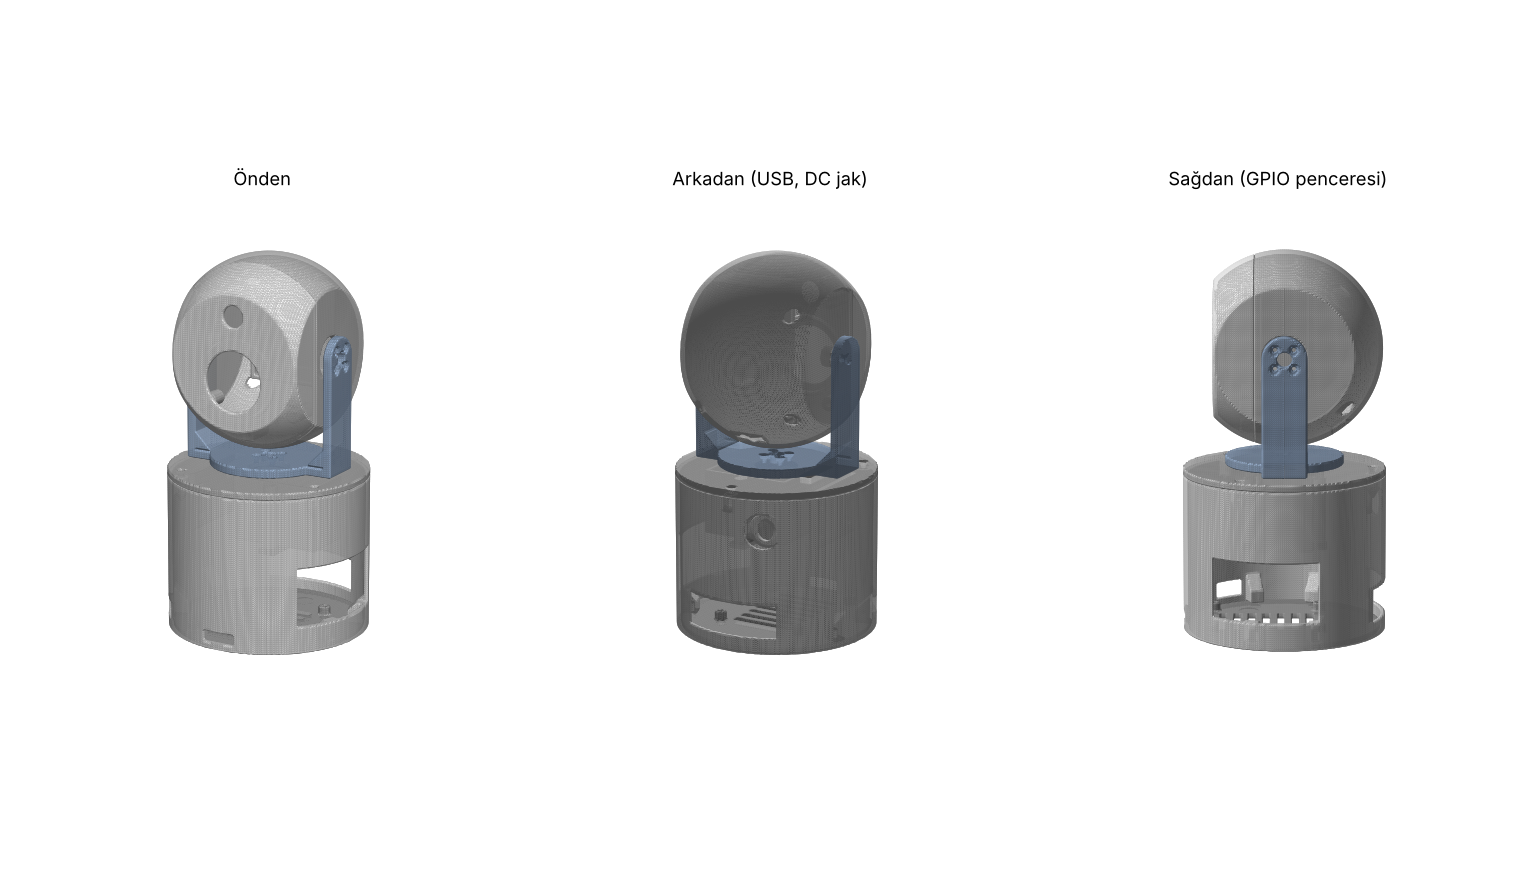
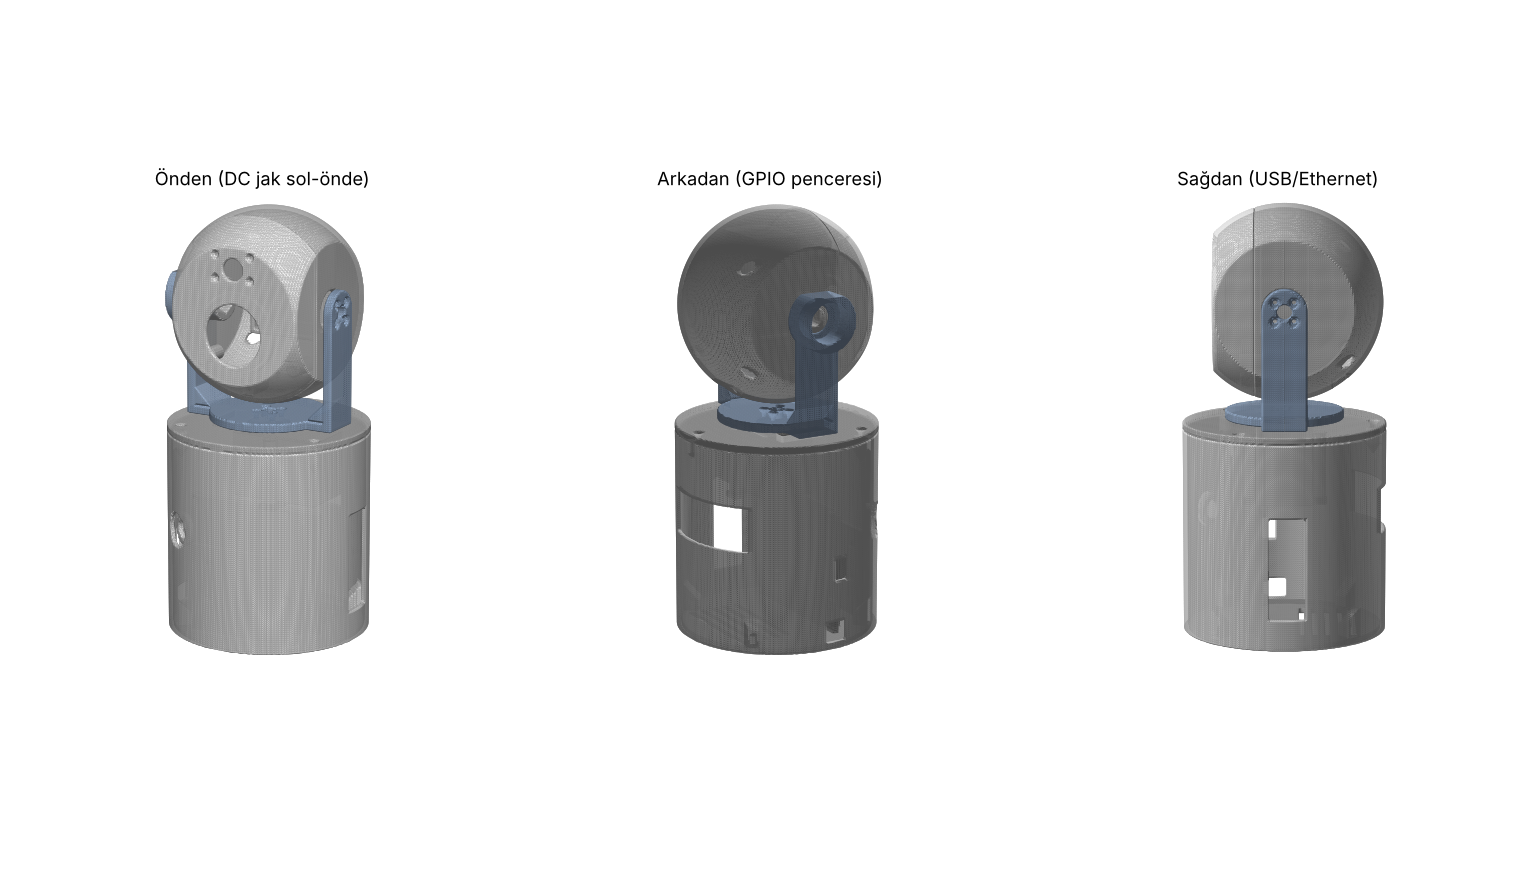
Gövde v0.4.1: Pi ve servo kartı dik, 2x608ZZ tilt mili (M8), kamera M2 vida+somun
Claude-Session: https://claude.ai/code/session_01TwNRyrY6z2di526zdgK8iY

diff --git a/tasarim/v4/robot_v4.py b/tasarim/v4/robot_v4.py
@@ -29,22 +29,31 @@ KORNA_D = 20.0              # ÖLÇ: korna çapı
 KORNA_DELIK_C = 14.0        # ÖLÇ: korna vida çemberi
 KORNA_VIDA = 2.5            # ÖLÇ: korna vida geçiş deliği (M2 ise 2.4, M3 ise 3.3)
 
-# Pi 5 (85 x 56, delikler 58 x 49, kenardan 3.5). Uzun eksen y, USB/Ethernet +y (arka).
-PI_X, PI_Y = 56.0, 85.0
-PI_DELIK = [(-24.5, -39.0), (24.5, -39.0), (-24.5, 19.0), (24.5, 19.0)]
-PLAKA_T, PI_AYAK = 3.0, 5.0
-PI_Z = PLAKA_T + PI_AYAK            # kartın alt yüzü
-PI_YIGIN = 38.0                     # ÖLÇ: Pi + Active Cooler + M.2 HAT+ (+SSD)
+# Pi 5 (85 x 56, delikler 58 x 49, kenardan 3.5) DİK durur: uzun kenar yatay (x), kart düzlemi xz.
+# Kartın alt yüzü öne (-y) bakar, bileşenler + HAT arkaya (+y). SD ucu -x, USB/Ethernet ucu +x,
+# GPIO üst uzun kenarda (arkaya bakar), USB-C alt uzun kenarda (aşağı bakar -> açılı kablo).
+PI_W, PI_H = 85.0, 56.0
+PI_Z0 = 16.0                        # kartın alt kenarı (altında açılı USB-C fişi için boşluk)  ÖLÇ
+PI_Z1 = PI_Z0 + PI_H                # 72
+PI_YB = -9.0                        # kartın alt yüzü (ön); HAT köşesi duvara sığsın
+PI_YIGIN = 38.0                     # ÖLÇ: Pi + Active Cooler + M.2 HAT+ (+SSD), kart dahil
+PI_DELIK = [(-39.0, PI_Z0 + 3.5), (19.0, PI_Z0 + 3.5), (-39.0, PI_Z0 + 52.5), (19.0, PI_Z0 + 52.5)]   # (x, z)
+PI_USBC_X = -42.5 + 11.2
+PLAKA_T = 3.0
+TASIYICI_Y = (PI_YB - 7, PI_YB - 4) # Pi taşıyıcı duvarı (alt plakadan yükselir)
+BUS_Y = (-41.0, -38.0)              # servo kartı taşıyıcı duvarı
+BUS_KART = (-20, 20, 20, 45)        # ÖLÇ: Bus Servo Adapter (A) x0, x1, z0, z1
+DC_ACI, DC_Z = 235.0, 60.0          # 12 V jak: sol-ön duvar, servo kartının üstü
 
 # Gövde
 G_R = 55.0
 G_IC = G_R - DUVAR
-G_UST = 85.5                        # tüp üst kenarı = kapak alt yüzü
+G_UST = PI_Z1 + 3 + SV_H + 0.5      # tüp üst kenarı = kapak alt yüzü (110.5): pan servo Pi'nin üstünde
 K_T = 4.0                           # kapak kalınlığı
 K_UST = G_UST + K_T                 # 89.5
 KORNA_UST = K_UST + 1.5             # pan kornasının üst yüzü
-SV_PAN_UST = KORNA_UST - SV_CIKINTI # pan servo üst yüzü (85.0)
-PLAKA_KULE_ACI = [20, 160, 200, 340]
+SV_PAN_UST = KORNA_UST - SV_CIKINTI # pan servo üst yüzü
+PLAKA_KULE_ACI = [45, 135, 225, 315]
 KAPAK_KULE_ACI = [90, 220, 330]
 KULE_R = 48.0
 
@@ -71,6 +80,9 @@ KAM_KART_Y = -31.0                  # kartın ön yüzü
 KAM_LENS_D = 12.0                   # ÖLÇ
 # Tilt servo kafada: mil +x, korna dış yüzü x = KOL_IC, gövde yukarı uzanır
 SV_T_YUZ = KOL_IC - SV_CIKINTI      # 33.5
+R608 = (8.0, 22.0, 7.0)             # 608ZZ: iç, dış, kalınlık
+RUL_SAYI = 2
+GOBEK_L = R608[2] * RUL_SAYI + 2.0   # sol kol göbeği: 2 rulman + 2 mm omuz
 KAFA_VIDA = [(-28.0, 28.0), (-28.0, -28.0), (28.0, -28.0), (0.0, -42.0)]  # (x, z)
 
 # ---------------- SDF temel parçalar ----------------------------------------
@@ -143,41 +155,57 @@ def govde(x, y, z):
         k = U(k, web)
         k = D(k, cyl(x, y, z, "z", (cx, cy), 2.0, G_UST - 6.5, G_UST + 1))
         sol = U(sol, k)
-    # DC jak için düz yatak (kavisli duvarda somun otursun): içte y=45, dışta y=48 -> 3 mm panel
-    sol = U(sol, I(cyl(x, y, z, "y", (-20, 68), 9.0, 45.0, 60), cyl(x, y, z, "z", (0, 0), G_R, 0, G_UST)))
-    sol = D(sol, cyl(x, y, z, "y", (-20, 68), 9.5, 48.0, 70))
+    # DC jak: kavisli duvarda düz yatak (içte 3 mm panel)
+    ca, sa = math.cos(math.radians(DC_ACI)), math.sin(math.radians(DC_ACI))
+    rad = x * ca + y * sa
+    def dc_cyl(r, a0, a1):   # radyal eksenli silindir
+        lat = np.sqrt((x * sa - y * ca) ** 2 + (z - DC_Z) ** 2)
+        return np.maximum(lat - r, np.maximum(a0 - rad, rad - a1))
+    sol = U(sol, I(dc_cyl(9.0, G_IC - 4.5, 70), cyl(x, y, z, "z", (0, 0), G_R, 0, G_UST)))
+    sol = D(sol, dc_cyl(9.5, G_IC - 1.5, 80))
     # --- açıklıklar ---
     kes = Un(
-        # USB + Ethernet (arka, +y)
-        box(x, y, z, -27, 27, 35, 70, PI_Z + 1, PI_Z + 19),
-        # USB-C güç (sol, -x)  — Pi 5'te USB-C, SD tarafındaki uçtan 11.2 mm
-        box(x, y, z, -70, -35, -31.3 - 7, -31.3 + 7, PI_Z - 1.3, PI_Z + 7.7),
-        # microSD (ön, -y, kartın altında)               ÖLÇ: yuvanın x konumu
-        box(x, y, z, -9, 9, -70, -38, PLAKA_T + 1, PI_Z + 2),
-        # GPIO penceresi (sağ, +x): başlık boyunca, HAT üstündeki pinlere kadar
-        box(x, y, z, 30, 70, -38, 18, PI_Z + 7, PI_Z + 39),
-        # 12 V DC jak (arka)                                ÖLÇ: panel jak deliği
-        cyl(x, y, z, "y", (-20, 68), 5.5, 30, 70),
-        # yan havalandırma (±x)
-        *[I(cyl(x, y, z, "x", (yy, zz), 1.3, -70, 70), np.abs(x) - 40) for zz in range(58, 81, 5) for yy in (-9, 9)],
-        *[I(box(x, y, z, -70, 70, -9, 9, zz - 1.3, zz + 1.3), np.abs(x) - 40) for zz in range(58, 81, 5)],
+        # USB + Ethernet (sağ, +x): kartın +x ucu, bileşen tarafı
+        box(x, y, z, 40, 70, PI_YB + 0.5, PI_YB + 20, PI_Z0 + 1, PI_Z1 - 1),
+        # USB-C (alt kenar, aşağı bakar): açılı fiş + kablo sola-arkaya çıkar
+        box(x, y, z, -70, PI_USBC_X + 7, PI_YB - 3, PI_YB + 10, PLAKA_T + 1, PI_Z0 - 1),
+        # microSD (sol, -x ucu, kartın ön yüzünde)                   ÖLÇ: yuvanın z konumu
+        box(x, y, z, -70, -40, PI_YB - 4, PI_YB + 4, PI_Z0 + 22, PI_Z0 + 34),
+        # GPIO penceresi (arka, +y): başlığın karşısı, HAT üstündeki pinlere bakar
+        box(x, y, z, -38, 18, 30, 70, PI_Z1 - 16, PI_Z1 + 8),
+        # 12 V DC jak
+        dc_cyl(5.5, 30, 80),
+        # yan havalandırma (±x), pan servo hizası
+        *[I(cyl(x, y, z, "x", (yy, zz), 1.3, -70, 70), np.abs(x) - 40) for zz in range(84, 106, 5) for yy in (-9, 9)],
+        *[I(box(x, y, z, -70, 70, -9, 9, zz - 1.3, zz + 1.3), np.abs(x) - 40) for zz in range(84, 106, 5)],
     )
     return D(sol, kes)
 
 
 def alt_plaka(x, y, z):
     p = cyl(x, y, z, "z", (0, 0), G_IC - B, 0, PLAKA_T)
-    for (px, py) in PI_DELIK:
-        p = U(p, cyl(x, y, z, "z", (px, py), 3.25, PLAKA_T - 0.01, PLAKA_T + PI_AYAK))
+    # Pi taşıyıcı duvarı + ayaklar (vida önden, HAT direklerine)
+    ty0, ty1 = TASIYICI_Y
+    duvar_pi = box(x, y, z, -40, 40, ty0, ty1, PLAKA_T - 0.01, PI_Z1)
+    for rx in (-30, 0, 30):   # dik kaburgalar
+        duvar_pi = U(duvar_pi, box(x, y, z, rx - 1.5, rx + 1.5, ty0 - 6, ty0 + 0.01, PLAKA_T - 0.01, PI_Z1 - 6))
+    ayak = Un(*[cyl(x, y, z, "y", (px, pz), 3.25, ty1 - 0.01, PI_YB) for px, pz in PI_DELIK])
+    # servo kartı taşıyıcısı (dik), cırt/zip yuvaları
+    by0, by1 = BUS_Y
+    duvar_bus = box(x, y, z, -25, 25, by0, by1, PLAKA_T - 0.01, BUS_KART[3] + 8)
+    for zz in (BUS_KART[2] + 3, BUS_KART[3] - 3):
+        for xx in (-14, 14):
+            duvar_bus = D(duvar_bus, box(x, y, z, xx - 2, xx + 2, by0 - 1, by1 + 1, zz - 1.5, zz + 1.5))
+    p = Un(p, duvar_pi, ayak, duvar_bus)
     kes = []
-    for (px, py) in PI_DELIK:   # M2.5 alttan, baş gömülü
-        kes += [cyl(x, y, z, "z", (px, py), 1.45, -1, PI_Z + 1), cyl(x, y, z, "z", (px, py), 2.7, -1, 1.6)]
+    for px, pz in PI_DELIK:   # M2.5, önden; baş gömülü
+        kes += [cyl(x, y, z, "y", (px, pz), 1.45, ty0 - 7, PI_YB + 1), cyl(x, y, z, "y", (px, pz), 2.8, ty0 - 7, ty0 + 1.6)]
     for a in PLAKA_KULE_ACI:    # M3 havşa
         cx, cy = KULE_R * math.cos(math.radians(a)), KULE_R * math.sin(math.radians(a))
         kes += [cyl(x, y, z, "z", (cx, cy), 1.7, -1, PLAKA_T + 1), cyl(x, y, z, "z", (cx, cy), 3.3, -0.01, 1.6, 1.7)]
-    for i in range(-3, 4):      # havalandırma
-        kes.append(box(x, y, z, -18, 18, i * 8 - 12, i * 8 - 8, -1, PLAKA_T + 1))
-    for a in (90, 210, 330):    # lastik ayak yuvaları (Ø10)
+    for i in range(5):          # havalandırma: Pi'nin arkasında (HAT/fan altı) ve önde
+        kes.append(box(x, y, z, -30, 30, 8 + i * 7, 11 + i * 7, -1, PLAKA_T + 1))
+    for a in (60, 120, 270):    # lastik ayak yuvaları (Ø10)
         kes.append(cyl(x, y, z, "z", (40 * math.cos(math.radians(a)), 40 * math.sin(math.radians(a))), 5.25, -1, 1.0))
     return D(p, Un(*kes))
 
@@ -196,12 +224,7 @@ def kapak(x, y, z):
     for s in (-1, 1):
         kafes = U(kafes, D(cyl(x, y, z, "z", (KELEPCE_X, s * 18.5), 3.8, z0 - 0.3, G_UST),
                            cyl(x, y, z, "z", (KELEPCE_X, s * 18.5), 2.0, z0 - 1, z0 + 6)))
-    # Bus Servo Adapter (A) askısı: -x tarafta dikey plaka, kelepçe (cırt/zip) yuvaları
-    aski = box(x, y, z, -37.5, -34.5, -22, 22, z0 + 3, G_UST + 0.1)
-    for zz in (z0 + 10, z0 + 26):
-        for yy in (-15, 15):
-            aski = D(aski, box(x, y, z, -40, -30, yy - 2, yy + 2, zz - 1.5, zz + 1.5))
-    k = Un(k, kafes, aski)
+    k = Un(k, kafes)
     kes = [cyl(x, y, z, "z", (0, 0), 11.5, G_UST - 1, K_UST + 1),                       # korna + mil
            box(x, y, z, -28.5, -21.5, -13, 13, G_UST - 1, K_UST + 1)]                    # kablo yarığı (kamera FFC + kablolar)
     for a in KAPAK_KULE_ACI:
@@ -226,7 +249,8 @@ def boyun(x, y, z):
     ax = np.abs(x)
     gus = I(I(box(ax, y, z, KOL_IC - 10, KOL_IC + 0.01, -KOL_W / 2, KOL_W / 2, z1 - 0.01, z1 + 10)
               , (z - z1) + (KOL_IC - ax) - 10), -ax + 0)
-    p = Un(tabla, kol, gus)
+    gobek = cyl(x, y, z, "x", (0, EKSEN_Z), 16.0, -KOL_IC - GOBEK_L, -KOL_IC)       # sol: 2 x 608 göbeği
+    p = Un(tabla, kol, gus, gobek)
     kes = [cyl(x, y, z, "z", (0, 0), 4.0, z0 - 1, z1 + 1)]                                # korna merkez vidası
     for i in range(4):
         a = math.radians(45 + 90 * i)
@@ -239,9 +263,9 @@ def boyun(x, y, z):
         cy, cz = KORNA_DELIK_C / 2 * math.cos(a), EKSEN_Z + KORNA_DELIK_C / 2 * math.sin(a)
         kes += [cyl(x, y, z, "x", (cy, cz), KORNA_VIDA / 2, KOL_IC - 1, KOL_IC + KOL_T + 1),
                 cyl(x, y, z, "x", (cy, cz), 2.6, KOL_IC + KOL_T - 2, KOL_IC + KOL_T + 1)]
-    # sol kol: M3 mil vidası
-    kes += [cyl(x, y, z, "x", (0, EKSEN_Z), 1.7, -KOL_IC - KOL_T - 1, -KOL_IC + 1),
-            cyl(x, y, z, "x", (0, EKSEN_Z), 3.0, -KOL_IC - KOL_T - 1, -KOL_IC - KOL_T + 2)]
+    # sol kol: 2 x 608ZZ dışarıdan basılır, içte 2 mm omuz; M8 cıvata mil olur
+    kes += [cyl(x, y, z, "x", (0, EKSEN_Z), R608[1] / 2 + 0.05, -KOL_IC - GOBEK_L - 1, -KOL_IC - 2),
+            cyl(x, y, z, "x", (0, EKSEN_Z), 8.0, -KOL_IC - 3, -KOL_IC + 1)]
     return D(p, Un(*kes))
 
 
@@ -261,21 +285,29 @@ def kafa(x, y, z):
     cep = D(cep, box(x, y, z, -60, 60, -60, y0 - B, -60, 60))          # önden açık: servo önden girer
     cep = I(cep, sphere(x, y, z, (0, 0, 0), K_IC + 0.5))
     # sol mil yuvası (M3 insert) + dış pul
-    mil = U(cyl(x, y, z, "x", (0, 0), 5.5, -DUZ_X - 1.2, -DUZ_X + DUVAR + 6), cyl(x, y, z, "x", (0, 0), 7, -DUZ_X, -DUZ_X + DUVAR))
+    # sol mil: iç bileziklere dayanan Ø11 burun + içte M8 somun yuvası (cıvata dışarıdan sıkılır)
+    mil = U(cyl(x, y, z, "x", (0, 0), 5.5, -KOL_IC - 2, -DUZ_X + 0.01),
+            cyl(x, y, z, "x", (0, 0), 12.0, -DUZ_X + 0.5, -DUZ_X + DUVAR + 9))
     # ekran yatağı (ön duvarın arkası)
     ekran = D(cyl(x, y, z, "y", (0, EKRAN_Z), EKRAN_KART / 2 + 2.4, YUZ_Y + DUVAR - 0.01, YUZ_Y + DUVAR + EKRAN_KALINLIK),
               cyl(x, y, z, "y", (0, EKRAN_Z), EKRAN_KART / 2 + B, YUZ_Y, YUZ_Y + DUVAR + EKRAN_KALINLIK + 1))
     ekran = I(ekran, ic_bolge + 0.01)
     # kamera ayakları (M2, kendinden kılavuzlu)
-    kam = Un(*[cyl(x, y, z, "y", (dx, KAM_Z + dz), 2.2, YUZ_Y + 1, KAM_KART_Y) for dx, dz in KAM_DELIK])
+    kam = Un(*[cyl(x, y, z, "y", (dx, KAM_Z + dz), 2.4, YUZ_Y + 1, KAM_KART_Y) for dx, dz in KAM_DELIK])
     # birleştirme kuleleri (ayrım düzleminin iki yanında)
     kule = Un(*[cyl(x, y, z, "y", (px, pz), 4.0, BOLME_Y - 8, BOLME_Y + 10) for px, pz in KAFA_VIDA])
     k = Un(k, cep, mil, I(ekran, sphere(x, y, z, (0, 0, 0), K_R)), kam, kule)
     kes = [cyl(x, y, z, "y", (0, EKRAN_Z), EKRAN_PENCERE / 2, YUZ_Y - 5, YUZ_Y + DUVAR + 0.01),   # ekran penceresi
            cyl(x, y, z, "y", (0, KAM_Z), KAM_LENS_D / 2, YUZ_Y - 5, KAM_KART_Y),                 # kamera lensi
            cyl(x, y, z, "x", (0, 0), 11.5, SV_T_YUZ - 0.5, DUZ_X + 1),                          # sağ: korna deliği
-           cyl(x, y, z, "x", (0, 0), 2.0, -DUZ_X - 2, -DUZ_X + DUVAR + 6.5)]                      # sol: M3 insert
-    kes += [cyl(x, y, z, "y", (dx, KAM_Z + dz), 0.8, YUZ_Y + 1.5, KAM_KART_Y + 1) for dx, dz in KAM_DELIK]
+           cyl(x, y, z, "x", (0, 0), 4.2, -KOL_IC - 3, -DUZ_X + DUVAR + 10)]                      # sol: M8 geçiş
+    # M8 somun (13 mm anahtar) altıgen yuvası, içeriden
+    ang = np.arctan2(z, y); rr = np.sqrt(y * y + z * z)
+    hexd = rr * np.cos(((ang + np.pi / 6) % (np.pi / 3)) - np.pi / 6) - 6.65
+    kes.append(np.maximum(hexd, np.maximum((-DUZ_X + DUVAR + 2) - x, x - (-DUZ_X + DUVAR + 10))))
+    for dx, dz in KAM_DELIK:   # M2 vida yüzden, somun kartın arkasında
+        kes += [cyl(x, y, z, "y", (dx, KAM_Z + dz), 1.15, YUZ_Y - 1, KAM_KART_Y + 1),
+                cyl(x, y, z, "y", (dx, KAM_Z + dz), 2.1, YUZ_Y - 1, YUZ_Y + 1.2)]
     # kablo çıkışı (arka-alt): kamera FFC + ekran + servo kabloları
     dy, dz = math.cos(math.radians(55)), -math.sin(math.radians(55))
     kes.append(I(I(np.abs(x) - 10, np.abs(y * dz - z * dy) - 4.5), (K_IC - 6) - (y * dy + z * dz)))
@@ -342,10 +374,10 @@ def to_bed(v):
 PARTS = {
     # ad: (fonksiyon, sınırlar, baskı yönü dönüşümü)
     "govde":     (govde, ((-G_R - 1, G_R + 1), (-G_R - 1, G_R + 1), (-0.5, G_UST + 0.5)), lambda v: flip_z(v, G_UST)),
-    "alt_plaka": (alt_plaka, ((-G_IC, G_IC), (-G_IC, G_IC), (-0.5, PI_Z + 0.5)), lambda v: v),
-    "kapak":     (kapak, ((-G_R - 1, G_R + 1), (-G_R - 1, G_R + 1), (40, K_UST + 0.5)), lambda v: flip_z(v, K_UST)),
+    "alt_plaka": (alt_plaka, ((-G_IC, G_IC), (-G_IC, G_IC), (-0.5, PI_Z1 + 0.5)), lambda v: v),
+    "kapak":     (kapak, ((-G_R - 1, G_R + 1), (-G_R - 1, G_R + 1), (G_UST - SV_H - 10, K_UST + 0.5)), lambda v: flip_z(v, K_UST)),
     "kelepce":   (kelepce, ((-6, 6), (-24, 24), (-0.5, 4)), lambda v: v),
-    "boyun":     (boyun, ((-KOL_IC - KOL_T - 1, KOL_IC + KOL_T + 1), (-33, 33), (BOYUN_Z0 - 0.5, EKSEN_Z + KOL_W / 2 + 0.5)),
+    "boyun":     (boyun, ((-KOL_IC - GOBEK_L - 1, KOL_IC + KOL_T + 1), (-33, 33), (BOYUN_Z0 - 0.5, EKSEN_Z + KOL_W / 2 + 0.5)),
                   lambda v: v - np.array([0, 0, BOYUN_Z0])),
     "kafa_on":   (kafa_on, ((-K_R - 1, K_R + 1), (YUZ_Y - 0.5, BOLME_Y + 0.5), (-K_R - 1, K_R + 1)),
                   lambda v: to_bed(rot_x(v, 90))),   # yüz tablada

diff --git a/tasarim/v4/kontrol.py b/tasarim/v4/kontrol.py
@@ -25,25 +25,36 @@ def overlap(part, dummy, g, shrink=0.2):
 x0, x1, y0, y1, z0, z1 = pan_servo_kutu()
 tx0, tx1, ty0, ty1, tz0, tz1 = tilt_servo_kutu()
 lz = EKSEN_Z + KAM_Z
+ca, sa = math.cos(math.radians(DC_ACI)), math.sin(math.radians(DC_ACI))
+def dc(x, y, z):
+    rad = x * ca + y * sa; lat = np.sqrt((x * sa - y * ca) ** 2 + (z - DC_Z) ** 2)
+    return np.maximum(lat - 6, np.maximum((G_IC - 18) - rad, rad - (G_IC - 4.6)))
 dummies = {
-    "Pi+HAT yığını": lambda x, y, z: box(x, y, z, -PI_X / 2, PI_X / 2, -PI_Y / 2, PI_Y / 2, PI_Z, PI_Z + PI_YIGIN),
+    "Pi kartı":      lambda x, y, z: box(x, y, z, -42.5, 42.5, PI_YB, PI_YB + 1.6, PI_Z0, PI_Z1),
+    "Pi bileşenleri": lambda x, y, z: box(x, y, z, -42.5, 42.5, PI_YB, PI_YB + 18, PI_Z0, PI_Z1),
+    "HAT yığını":    lambda x, y, z: box(x, y, z, -42.5, 22.5, PI_YB, PI_YB + PI_YIGIN, PI_Z0, PI_Z1),
+    "USB/Eth çıkıntı": lambda x, y, z: box(x, y, z, 42.5, 45.5, PI_YB + 1.6, PI_YB + 17.6, PI_Z0 + 2, PI_Z1 - 2),
+    "açılı USB-C":   lambda x, y, z: box(x, y, z, PI_USBC_X - 6, PI_USBC_X + 6, PI_YB + 1.6, PI_YB + 9, PLAKA_T + 1.5, PI_Z0),
     "pan servo":     lambda x, y, z: box(x, y, z, x0, x1, y0, y1, z0, z1),
     "pan korna":     lambda x, y, z: cyl(x, y, z, "z", (0, 0), KORNA_D / 2, z1, KORNA_UST),
-    "servo kartı":   lambda x, y, z: box(x, y, z, -34.5, -24.5, -20, 20, 55, 80),
-    "DC jak":        lambda x, y, z: cyl(x, y, z, "y", (-20, 68), 6, 28, 44.8),
+    "servo kartı":   lambda x, y, z: box(x, y, z, BUS_KART[0], BUS_KART[1], BUS_Y[1], BUS_Y[1] + 10, BUS_KART[2], BUS_KART[3]),
+    "DC jak":        dc,
     "tilt servo":    lambda x, y, z: box(x, y, z - EKSEN_Z, tx0, tx1, ty0, ty1, tz0, tz1),
     "tilt korna":    lambda x, y, z: cyl(x, y, z - EKSEN_Z, "x", (0, 0), KORNA_D / 2, tx1, KOL_IC),
     "ekran":         lambda x, y, z: cyl(x, y, z - EKSEN_Z, "y", (0, EKRAN_Z), EKRAN_KART / 2, YUZ_Y + DUVAR, YUZ_Y + DUVAR + EKRAN_KALINLIK),
     "kamera kartı":  lambda x, y, z: box(x, y, z, -12.5, 12.5, KAM_KART_Y, KAM_KART_Y + 1.2, lz - (24 - KAM_LENS_UST), lz + KAM_LENS_UST),
     "kamera lensi":  lambda x, y, z: box(x, y, z, -4.25, 4.25, YUZ_Y - 3, KAM_KART_Y, lz - 4.25, lz + 4.25),
+    "2x 608ZZ":      lambda x, y, z: cyl(x, y, z - EKSEN_Z, "x", (0, 0), R608[1] / 2, -KOL_IC - GOBEK_L, -KOL_IC - 2),
+    "M8 cıvata":     lambda x, y, z: cyl(x, y, z - EKSEN_Z, "x", (0, 0), 4.0, -KOL_IC - GOBEK_L - 6, -DUZ_X + DUVAR + 12),
+    "M8 somun":      lambda x, y, z: cyl(x, y, z - EKSEN_Z, "x", (0, 0), 6.4, -DUZ_X + DUVAR + 3, -DUZ_X + DUVAR + 9.5),
 }
-g_govde = grid(-56, 56, -56, 56, -1, 92)
-g_kafa = grid(-56, 56, -56, 56, EKSEN_Z - 56, EKSEN_Z + 56)
+g_govde = grid(-56, 56, -56, 56, -1, K_UST + 3)
+g_kafa = grid(-62, 56, -56, 56, EKSEN_Z - 56, EKSEN_Z + 56)
 parts_lo = {"govde": govde, "alt_plaka": alt_plaka, "kapak": kapak, "boyun": boyun}
 print("Bileşen -> parça çakışmaları (mm³):")
 bad = 0
 for dn, dfn in dummies.items():
-    g = g_kafa if dn.startswith(("tilt", "ekran", "kamera")) else g_govde
+    g = g_kafa if dn.startswith(("tilt", "ekran", "kamera", "2x", "M8")) else g_govde
     parts = {"kafa": lambda x, y, z: kafa_m(x, y, z), "boyun": boyun} if g is g_kafa else parts_lo
     for pn, pfn in parts.items():
         v = overlap(pfn, dfn, g)
@@ -53,12 +64,12 @@ for dn, dfn in dummies.items():
 print("  temiz" if not bad else f"  {bad} çakışma")
 
 print("Kafa eğimi -> boyun/kapak çarpması (mm³):")
-g = grid(-56, 56, -60, 60, 85, EKSEN_Z + 60)
+g = grid(-62, 56, -60, 60, G_UST - 2, EKSEN_Z + 60)
 for e in (-40, -25, 0, 25, 40):
     v1 = overlap(lambda x, y, z: kafa_m(x, y, z, e), boyun, g, shrink=0)
     v2 = overlap(lambda x, y, z: kafa_m(x, y, z, e), kapak, g, shrink=0)
     print(f"  eğim {e:+3d}°: boyun {v1:.1f}  kapak {v2:.1f}")
 print("Parça-parça (montaj):")
-g = grid(-56, 56, -56, 56, -1, 100)
+g = grid(-62, 56, -56, 56, -1, K_UST + 30)
 for a, b in (("govde", "alt_plaka"), ("govde", "kapak"), ("kapak", "boyun"), ("alt_plaka", "kapak")):
     print(f"  {a} ∩ {b}: {overlap(parts_lo[a], parts_lo[b], g, shrink=0):.1f}")

diff --git a/tasarim/v4/onizleme.py b/tasarim/v4/onizleme.py
@@ -13,7 +13,7 @@ for n, (fn, bounds, _) in PARTS.items():
     meshes[n] = (assembly_transform(n, v), f)
 light = np.array([0.4, -0.6, 0.7]); light /= np.linalg.norm(light)
 fig = plt.figure(figsize=(14, 8), dpi=110)
-for k, (el, az, title) in enumerate(((15, -60, "Önden"), (15, 120, "Arkadan (USB, DC jak)"), (10, 0, "Sağdan (GPIO penceresi)"))):
+for k, (el, az, title) in enumerate(((15, -60, "Önden (DC jak sol-önde)"), (15, 150, "Arkadan (GPIO penceresi)"), (10, 0, "Sağdan (USB/Ethernet)"))):
     ax = fig.add_subplot(1, 3, k + 1, projection="3d")
     T, C = [], []
     for n, (v, f) in meshes.items():

diff --git a/tasarim/v4/README.md b/tasarim/v4/README.md
@@ -1,16 +1,16 @@
 # Robot gövdesi v0.4 — küre kafa + silindir gövde
 
 `python3 robot_v4.py` → `stl/` içine 7 parça. `python3 kontrol.py` → çakışma raporu. `python3 onizleme.py` → `onizleme.png`.
-Boy ≈ 207 mm, gövde Ø110, kafa Ø106.
+Boy ≈ 232 mm, gövde Ø110 × 114, kafa Ø106.
 
 ## Parçalar ve baskı (STL'ler baskı yönünde gelir, döndürme gerekmez)
 | Parça | Ne | Baskı | Destek |
 |---|---|---|---|
 | govde | Pi + HAT + servo kartı + pan servo bölmesi | baş aşağı (üst kenar tablada) | pencere köprüleri için ağaç (sadece tabladan) |
-| alt_plaka | Pi 5 ayakları (vida alttan) | düz | yok |
-| kapak | pan servo kafesi + servo kartı askısı | üst yüz tablada | yok |
+| alt_plaka | taban + dik Pi taşıyıcı + dik servo kartı taşıyıcı | düz | yok |
+| kapak | pan servo kafesi | üst yüz tablada | yok |
 | kelepce | pan servoyu alttan tutar | düz | yok |
-| boyun | pan kornasına oturan çatal | tabla aşağıda | yok |
+| boyun | pan kornasına oturan çatal, solda 2 × 608ZZ göbeği | tabla aşağıda | yok |
 | kafa_on | yüz: ekran + kamera | yüz tablada | yok/az |
 | kafa_arka | tilt servo yuvası | ayrım yüzü tablada | ağaç (iç) |
 
@@ -19,27 +19,31 @@ PLA veya PETG, 0.2 mm, 3 duvar, %20 dolgu.
 ## Gerekenler
 - 2 × ST3215 (pan + tilt), 1 × Bus Servo Adapter (A), Pi 5 + Active Cooler + M.2 HAT+
 - Camera Module 3 (uzun FFC ≥ 300 mm, Pi 5 için 22→15 pin), GC9A01 1.28" yuvarlak ekran
+- 2 × 608ZZ, 1 × M8×30 cıvata + M8 somun (kafanın sol mili)
+- **90° açılı USB-C kablo/adaptör** (Pi dik durunca USB-C aşağı bakar; fiş için 12 mm yer var — ÖLÇ)
 - 12 V panel DC jak (Ø11 delik, ≤3 mm panel) — ÖLÇ
-- M3 heat-set insert × 14 (gövde 4+3, kapak 2, kafa_on 4, kafa_arka 1), M3 vida: 4×8 (alt plaka), 3×8 (kapak), 2×10 (kelepçe), 4×16 (kafa), 1×10 (kafa mili)
-- M2.5 × 10–12 vida × 4 (Pi, alttan HAT direklerine), M2 × 6 kendinden kılavuzlu × 4 (kamera)
+- M3 heat-set insert × 13 (gövde 4+3, kapak 2, kafa_on 4); M3 vida: 4×8 (alt plaka), 3×8 (kapak), 2×10 (kelepçe), 4×16 (kafa)
+- M2.5 × 10–12 × 4 (Pi, önden HAT direklerine)
+- M2 × 10 vida + M2 somun × 4 (kamera: vida yüzden, somun kartın arkasında)
 - Korna vidaları (servo ile gelir) × 8
 
 ## Yerleşim
-- Ön (-y): yüz; gövdede alt-önde microSD yarığı (cımbız)
-- Arka (+y): USB/Ethernet, 12 V DC jak
-- Sol (-x): Pi USB-C güç
-- Sağ (+x): GPIO penceresi (başlık hizası, HAT üstündeki pinlere kadar)
-- Kapakta kablo yarığı: kamera FFC + ekran + tilt servo kabloları
+- Pi 5 **dik**: uzun kenar yatay, kartın alt yüzü öne, HAT arkaya. GPIO üstte, arkaya bakar.
+- Arka (+y): GPIO penceresi (başlığın karşısı)
+- Sağ (+x): USB + Ethernet
+- Sol-arka, altta: USB-C kablo çıkışı. Sol (-x): microSD yarığı (cımbız)
+- Sol-ön: 12 V DC jak. Önde dik duran servo kartı (cırt/zip ile)
+- Pan servo Pi'nin üstünde, kapağa asılı. Kapakta kablo yarığı (kamera FFC + ekran + tilt servo)
 
 ## Montaj sırası
-1. Insert'leri havyayla göm (gövde 7, kapak 2, kafa_on 4, kafa_arka mil 1).
-2. Pi'yi alt plakaya: M2.5 vidalar alttan, HAT direklerine. Plakayı gövdeye M3 ile.
-3. Pan servoyu kapak kafesine alttan sok, kelepçeyle tuttur; servo kartını askıya cırt/zip ile.
-4. Kapağı gövdeye (3 × M3). Boyunu pan kornasına (4 vida), korna merkez vidası boyundaki delikten.
-5. Tilt servoyu kafa_arka'daki yuvaya önden sok; ekranı ve kamerayı kafa_on'a tak.
-6. Kafa kabuklarını 4 × M3×16 ile arkadan birleştir.
-7. Kafayı çatalın arasına: sağda korna (4 vida, merkez vidası koldaki delikten), solda M3 mil vidası.
+1. Insert'leri havyayla göm (gövde 7, kapak 2, kafa_on 4). M8 somunu kafa_arka'daki altıgen yuvaya içeriden yerleştir.
+2. Pi'yi alt plakadaki dik taşıyıcıya: M2.5 vidalar önden, HAT direklerine. Servo kartını öndeki taşıyıcıya bağla.
+3. Plakayı gövdeye alttan M3 ile.
+4. Pan servoyu kapak kafesine alttan sok, kelepçeyle tuttur. Kapağı gövdeye (3 × M3).
+5. Boyunu pan kornasına (4 vida), korna merkez vidası boyundaki delikten. 2 × 608ZZ'yi sol göbeğe dışarıdan bastır.
+6. Tilt servoyu kafa_arka'daki yuvaya önden sok; ekranı ve kamerayı kafa_on'a tak. Kabukları 4 × M3×16 ile arkadan birleştir.
+7. Kafayı çatala: sağda korna (4 vida, merkez vidası koldaki delikten); solda M8×30 cıvata dışarıdan rulmanlardan geçip içteki somuna. Kafa serbest dönecek kadar sık.
 
 ## ÖLÇ (doğrula)
 Servo mil konumu (uçtan 11 mm), korna çapı/vida çemberi (Ø20 / Ø14), ekran kartı çapı (Ø40) ve penceresi (Ø33),
-kamera lens yüksekliği, Pi+HAT yığın yüksekliği (38 mm), SD yuvasının yeri, DC jak deliği.
+kamera lens yüksekliği, Pi+HAT yığın yüksekliği (38 mm), SD yuvasının yeri, açılı USB-C fişinin boyu, DC jak deliği, kamera delik aralığı (21 × 12.5).
